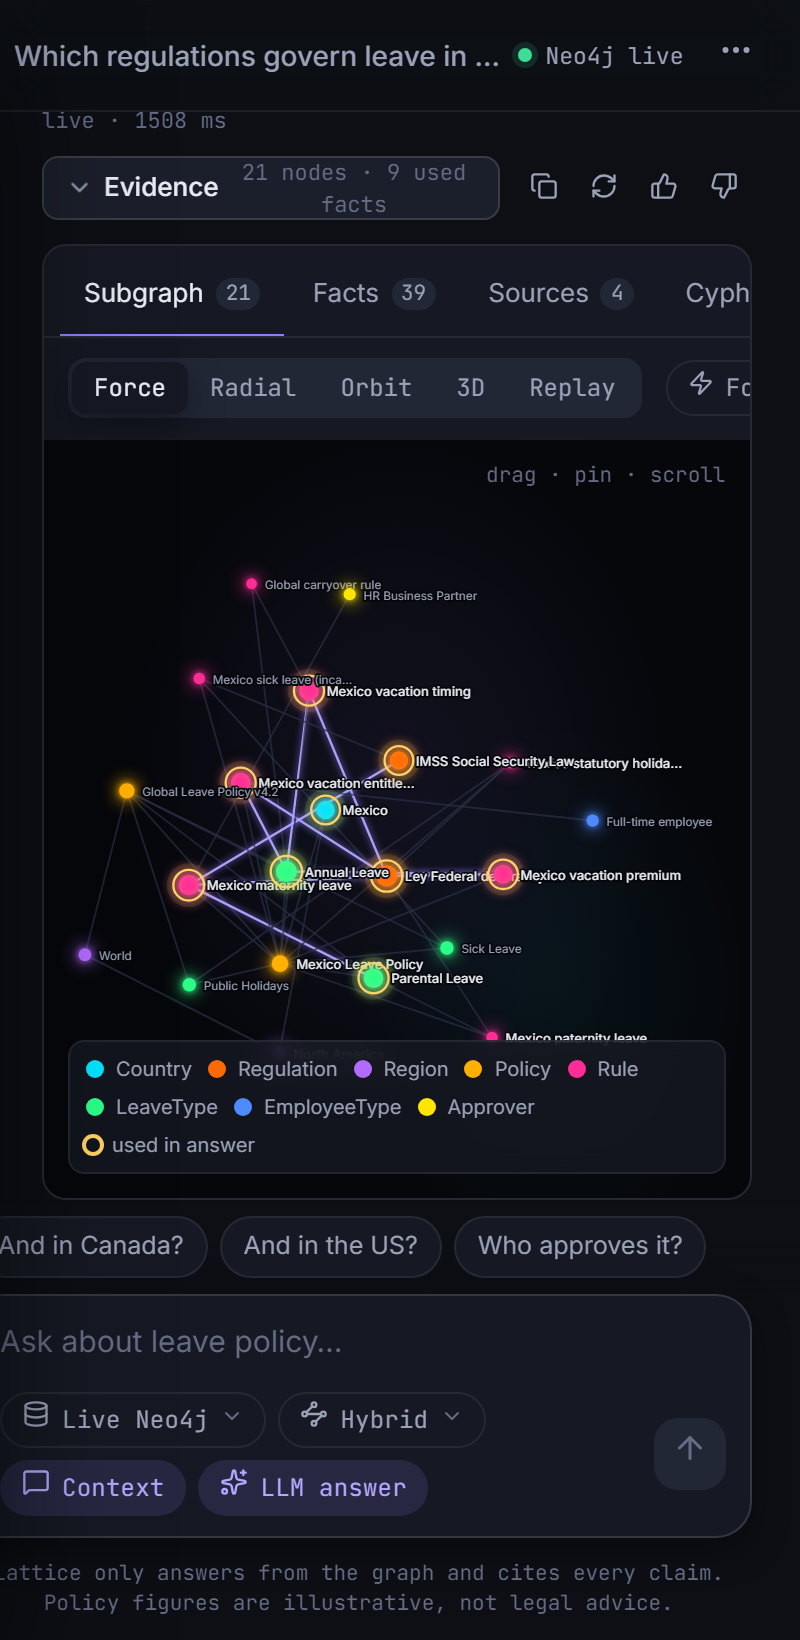
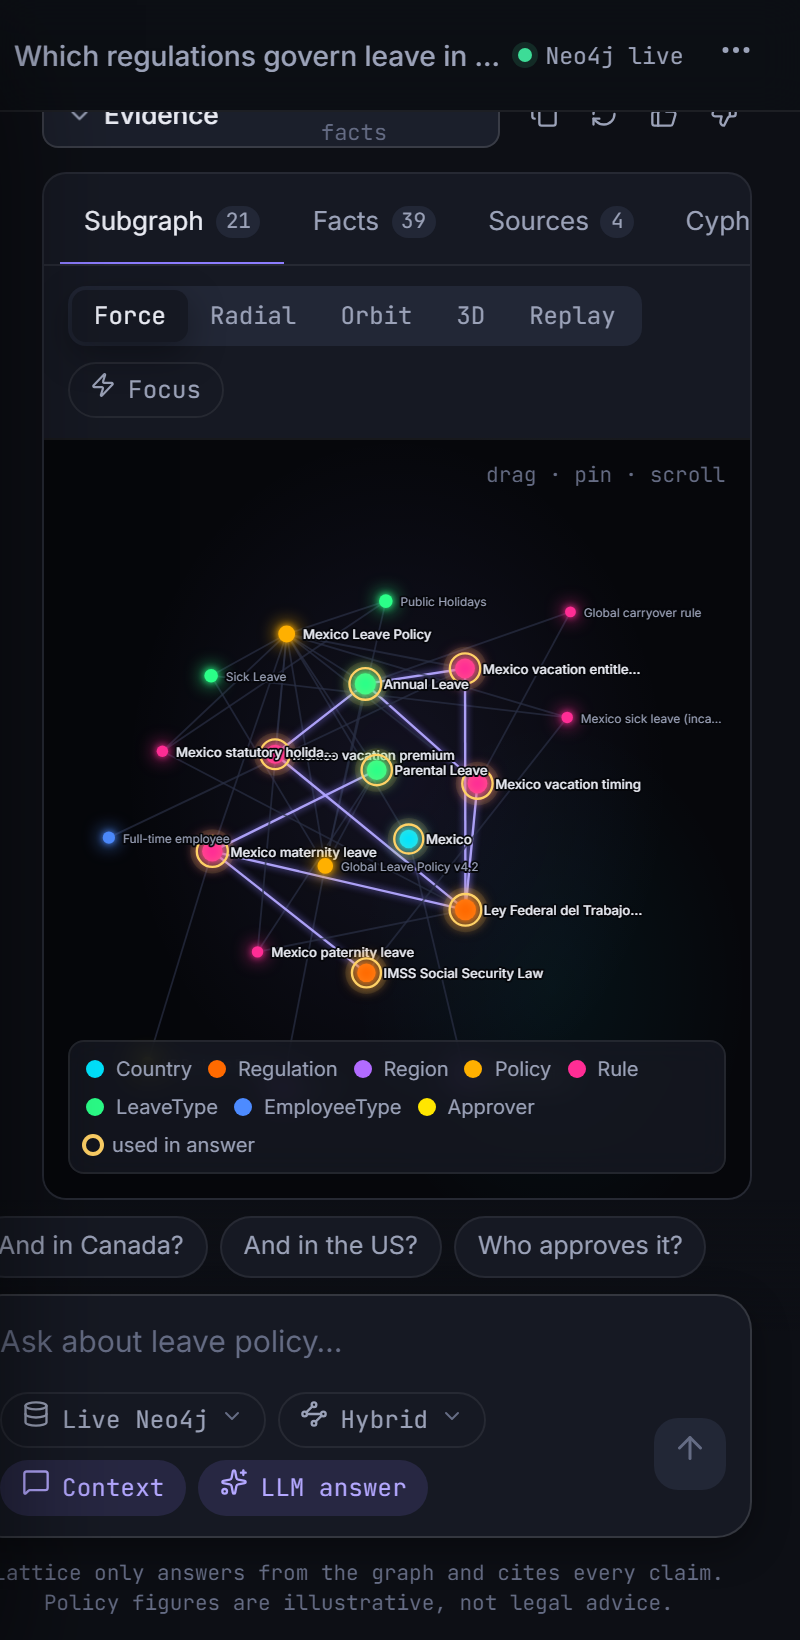
fix: wrap the evidence toolbar on phones so the chat never scrolls sideways

diff --git a/src/app/features/evidence/evidence.scss b/src/app/features/evidence/evidence.scss
@@ -80,8 +80,9 @@
 
 .graph-toolbar {
   display: flex;
+  flex-wrap: wrap;
   align-items: center;
-  gap: 12px;
+  gap: 8px 12px;
   padding: 10px 12px;
 }
 

diff --git a/src/app/features/chat/chat.scss b/src/app/features/chat/chat.scss
@@ -91,6 +91,7 @@
 
 .scroller {
   overflow-y: auto;
+  overflow-x: hidden;
   overscroll-behavior: contain;
   scroll-behavior: smooth;
 }
